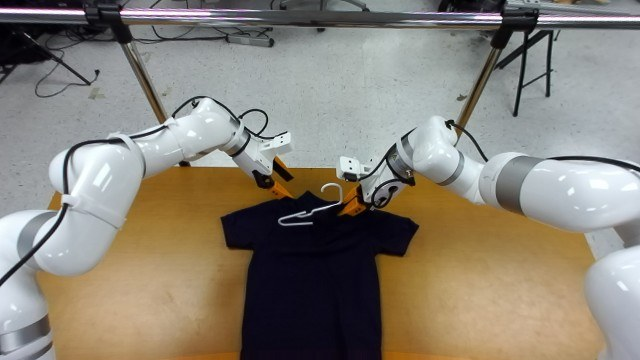
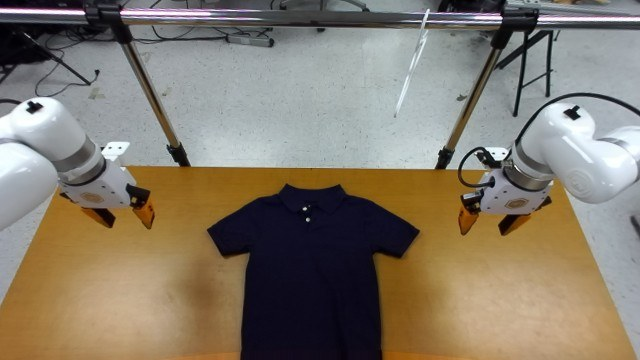
Start the explorer paused on frame 0 instead of autoplaying
The explorer no longer plays when scrolled into view; it waits on frame 0 for the play
button, Space, or the stage. A playing video still pauses when it leaves the screen or
the tab is hidden, and stays paused. The poster is now frame 0 and the media URLs carry
the asset version. The rollout players above are unchanged.

Claude-Session: https://claude.ai/code/session_0162iLhknx5UV3bdpA8o8Qu8

diff --git a/static/explorer/explorer.js b/static/explorer/explorer.js
@@ -41,6 +41,11 @@
     const pathsUrl = new URL(data.paths.file, location.href);
     pathsUrl.search = source.search;
     const buffer = await (await fetch(pathsUrl)).arrayBuffer();
+    for (const key of ["src", "poster"]) {
+      const url = new URL(data.video[key], location.href);
+      url.search = source.search;
+      data.video[key] = url.href;
+    }
     return { data, paths: new Int16Array(buffer) };
   }
 
@@ -345,8 +350,6 @@
     // ------------------------------------------------------------------ state
     let currentFrame = -1;
     let playing = false;
-    let userPaused = false;
-    let inView = false;
     let animation = 0;
 
     function accentColor() {
@@ -570,13 +573,13 @@
     }
 
     function togglePlayback() {
-      if (playing) { userPaused = true; pause(); } else { userPaused = false; play(); }
+      if (playing) pause(); else play();
     }
 
     playButton.addEventListener("click", togglePlayback);
     stage.addEventListener("click", togglePlayback);
-    stepBack.addEventListener("click", () => { userPaused = true; pause(); seek(currentFrame - 1); });
-    stepForward.addEventListener("click", () => { userPaused = true; pause(); seek(currentFrame + 1); });
+    stepBack.addEventListener("click", () => { pause(); seek(currentFrame - 1); });
+    stepForward.addEventListener("click", () => { pause(); seek(currentFrame + 1); });
     speed.addEventListener("change", () => { video.playbackRate = Number(speed.value); });
     scrubber.addEventListener("input", () => seek(Number(scrubber.value)));
     video.addEventListener("seeked", () => { if (!playing) draw(frameFromVideo()); });
@@ -584,8 +587,8 @@
     mount.addEventListener("keydown", (event) => {
       if (event.target.tagName === "SELECT" || event.target.tagName === "INPUT") return;
       if (event.key === " ") { event.preventDefault(); togglePlayback(); }
-      else if (event.key === "ArrowLeft") { event.preventDefault(); userPaused = true; pause(); seek(currentFrame - 1); }
-      else if (event.key === "ArrowRight") { event.preventDefault(); userPaused = true; pause(); seek(currentFrame + 1); }
+      else if (event.key === "ArrowLeft") { event.preventDefault(); pause(); seek(currentFrame - 1); }
+      else if (event.key === "ArrowRight") { event.preventDefault(); pause(); seek(currentFrame + 1); }
       else if (event.key === "Home") { event.preventDefault(); seek(0); }
       else if (event.key === "End") { event.preventDefault(); seek(N - 1); }
     });
@@ -645,7 +648,7 @@
       if (!dragging) return;
       dragging = false;
       timelineSvg.releasePointerCapture(event.pointerId);
-      if (resumeAfterDrag && !userPaused) play();
+      if (resumeAfterDrag) play();
       if (event.pointerType === "touch") hideHover();
     };
     timelineSvg.addEventListener("pointerup", endDrag);
@@ -659,7 +662,6 @@
       return match ? Number(match[1]) - 1 : null;
     }
     function jumpToFrame(frame) {
-      userPaused = true;
       pause();
       seek(frame);
       mount.scrollIntoView({ block: "start" });
@@ -680,18 +682,16 @@
       if (frame !== null) jumpToFrame(frame);
     });
 
-    // Autoplay while the stage is on screen, unless the viewer paused it.
+    // The explorer never starts on its own: it waits, paused on frame 0, for play. A playing
+    // video is paused when it scrolls off screen or the tab is hidden, and stays paused.
     const observer = new IntersectionObserver((entries) => {
       for (const entry of entries) {
-        inView = entry.isIntersecting;
-        if (inView && !userPaused && !document.hidden) play();
-        else if (!inView && playing) pause();
+        if (!entry.isIntersecting && playing) pause();
       }
     }, { threshold: 0.35 });
     observer.observe(stage);
     document.addEventListener("visibilitychange", () => {
       if (document.hidden && playing) pause();
-      else if (!document.hidden && inView && !userPaused) play();
     });
 
     // Relayout on the next frame so the observer never sees sizes it changed itself.

diff --git a/index.html b/index.html
@@ -200,8 +200,8 @@
 <link rel="stylesheet" href="static/rollouts/rollouts.css?v=2">
 <script defer src="static/rollouts/data.js?v=2"></script>
 <script defer src="static/rollouts/player.js?v=5"></script>
-<link rel="stylesheet" href="static/explorer/explorer.css?v=3">
-<script defer src="static/explorer/explorer.js?v=3"></script>
+<link rel="stylesheet" href="static/explorer/explorer.css?v=4">
+<script defer src="static/explorer/explorer.js?v=4"></script>
 </head>
 <body>
 
@@ -322,7 +322,7 @@
       and the panel ranks the candidates by Q-value. For a stretch where the base policy often struggles, look at
       frames 1258 to 1358, while the second sleeve is being hooked onto the hanger:
       <a href="#explorer-frame-1258">jump to frame 1258</a>.</p>
-    <div class="explorer-app" id="explorer-app" data-src="static/explorer/data.json?v=3">
+    <div class="explorer-app" id="explorer-app" data-src="static/explorer/data.json?v=4">
       <p class="explorer-loading">Loading the explorer…</p>
     </div>
     <p class="caption">The trajectory is a held-out demonstration from the validation split. The value chart
